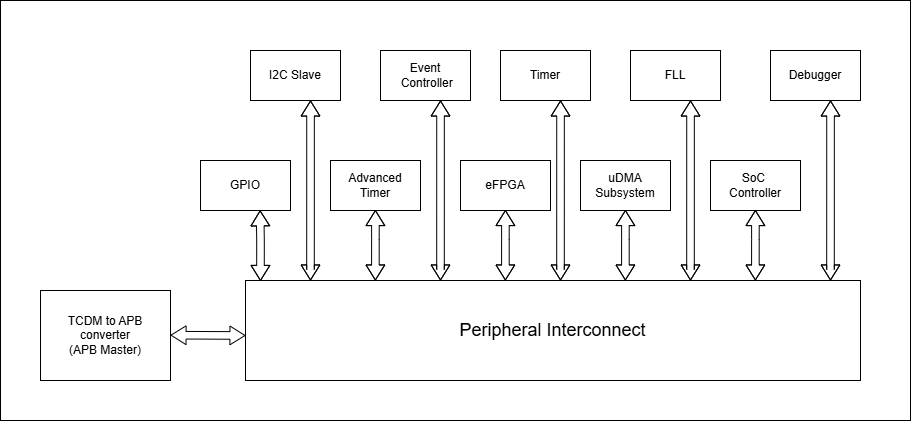
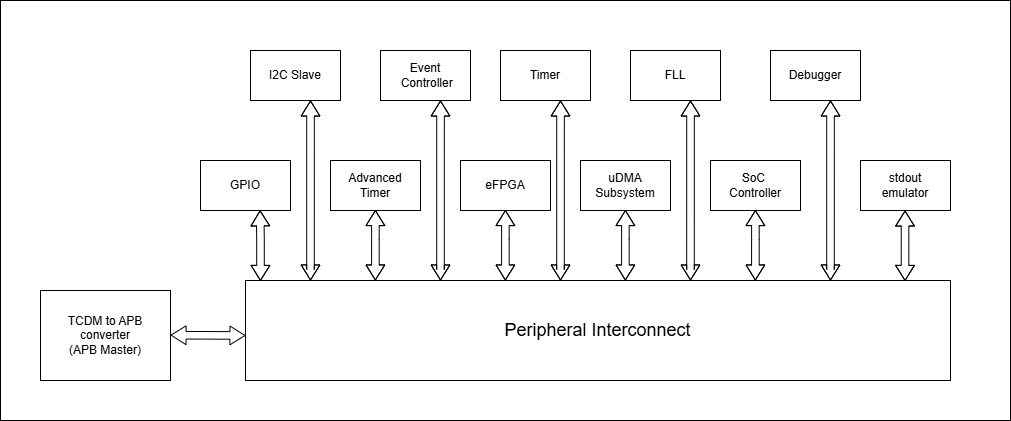
Updated Peripheral Interconnect docs

diff --git a/docs/doc-src/apb_peripheral_interconnect.rst b/docs/doc-src/apb_peripheral_interconnect.rst
@@ -21,11 +21,11 @@ APB Peripheral Interconnect
 ===========================
 
 The APB Peripheral Interconnect(Peripheral Bus Wrapper) functions as a central interface hub that enables communication between multiple peripheral devices and the Core Complex of CORE-V-MCU.
-This IP is essenitally an APB bus wrapper which works based on APB protocol and efficiently routes APB transactions from TCDM bus to various peripheral controllers based on address mapping, facilitating organized and structured communication within the CORE-V-MCU.
+This IP is essenitally an APB bus wrapper which works based on APB protocol and efficiently routes APB transactions from TCDM Interconnect to various peripheral controllers based on address mapping, facilitating organized and structured communication within the CORE-V-MCU.
 
 Features
 --------
-  - Multiple Peripheral Support: Interfaces with 11 distinct peripheral devices
+  - Multiple Peripheral Support: Interfaces with 11 distinct peripheral devices to provide memory-mapped access
   - Address-Based Routing: Routes transactions based on predefined address ranges
   - Request Timeout detection: Includes request timeout detection and peripheral-specific timeout reporting
   - Request Timeout error reporting: Provides peripheral-specific request timeout reporting via dedicated signals
@@ -45,13 +45,27 @@ The figure below is a high-level block diagram of the APB Peripheral Interconnec
 
 APB Transaction Routing
 ^^^^^^^^^^^^^^^^^^^^^^^
-The APB Peripheral Interconnect operates as a bridge between the system bus(TCDM bus) and multiple peripheral devices, allowing for efficient communication and data transfer.
+The APB Peripheral Interconnect operates as a bridge between the TCDM Interconnect and multiple peripheral devices, allowing for efficient communication and data transfer.
 The APB transaction routing flow can be summarized as follows:
 
-    - Firmware performs read/write operations to specific memory-mapped addresses, Core Complex initiates APB transactions to the APB Peripheral Interconnect.
-    - APB Peripheral Interconnect routes these transactions to the appropriate peripheral based on address ranges.
-    - Peripherals respond through the wrapper back to the requesting master.
-    - If a peripheral fails to respond, the integrated timeout detection mechanism activates and reports which peripheral has timed out.
+    - Firmware performs read/write operations to specific memory-mapped addresses, Core Complex initiates APB transactions to the APB Peripheral Interconnect via TCDM Interconnect.
+    - The APB peripheral interconnect accepts the transaction coming from TCDM at the apb_slave interface.
+    - The APB Peripheral Interconnect provides routing to the following peripherals:
+        - APB FLL                                      
+        - APB GPIO                                     
+        - uDMA Subsystem                               
+        - APB SoC Controller                           
+        - APB Advanced Timer                           
+        - APB Event Controller                         
+        - APB I2C Slave                                
+        - APB Timer                                    
+        - eFPGA subsystem                             
+        - APB Debugger 
+        - stdout emulator  
+    - APB Peripheral Interconnect routes these transactions received from TCDM interconnect to the peripherals based on address ranges and raises a start_rto_o signal to the SOC controller. Refer to the `memory map <https://docs.openhwgroup.org/projects/core-v-mcu/doc-src/mmap.html>`_ for the complete address mapping of the peripherals. 
+    - APB Peripheral Interconnect uses the <peripheralName>_master (e.g., soc_ctrl_master, etc.) interface to forward the transaction to the peripherals.
+    - Both master and slave interfaces of the APB peripheral are designed using the APB protocol.
+    - If a peripheral fails to respond to APB interconnect within a predefined time, the integrated timeout detection mechanism activates and reports which peripheral has timed out. The timeout mechanism is discussed in the Timeout Mechanism section.
 
 Timeout Mechanism
 ^^^^^^^^^^^^^^^^^
@@ -59,8 +73,49 @@ The APB Peripheral Interconnect includes a timeout detection mechanism to handle
 Below is a description of the timeout handling process:
 
     - The start_rto_o signal is activated when a peripheral is selected based on the address specified in the APB transaction, triggering timeout counter in SoC Controller.
-    - If a peripheral doesn't respond within the timeout period i.e. before the rto_i input is asserted by SoC Controller, a timeout error occurs.
-    - When a timeout occurs, the peripheral_rto_o signals indicate which specific peripheral failed to respond, which then can be read through the SoC Controller.
+    - The SoC Controller has RTO_COUNT CSR that can be used to decide the timeout period. The default value of RTO_COUNT is 0xFF.
+    - If a peripheral doesn't respond within the timeout period i.e. before the rto_i input is asserted by SoC Controller for one clock cycle, a timeout error occurs.
+    - When a timeout occurs, the peripheral_rto_o signals indicate which specific peripheral failed to respond, which then can be read through the SoC Controller's RTO_PERIPHERAL CSR.(Check `SoC Controller <https://docs.openhwgroup.org/projects/core-v-mcu/doc-src/ip-blocks/apb_soc_ctrl.html>`_ specs for more details)
+    - The peripheral_rto_o signal is cleared after one clock cycle.
+
+The peripheral_rto_o signal to peripheral mapping can be found below:
+
++-----------------+----------+-------------+----------------------------------------+
+| Peripheral      | **Bit**  | **Default** | **Description**                        |
++=================+==========+=============+========================================+
+| APB debugger    |   10:10  | 0x0         | 1 indicates that the debugger          |
+|                 |          |             | interface caused a ready timeout       |
++-----------------+----------+-------------+----------------------------------------+
+| stdout emulator |   9:9    | 0x0         | 1 indicates that the stdout emulator   |
+|                 |          |             | interface caused a ready timeout       |
++-----------------+----------+-------------+----------------------------------------+
+| Core-Complex    |   8:8    | 0x0         | 1 indicates that the FC/Core-Complex   |
+|                 |          |             | interface caused a ready timeout       |
++-----------------+----------+-------------+----------------------------------------+
+| APB TIMER       |   7:7    | 0x0         | 1 indicates that the Timer interface   |
+|                 |          |             | caused a ready timeout                 |
++-----------------+----------+-------------+----------------------------------------+
+| APB I2CS        |   6:6    | 0x0         | 1 indicates that the I2CS interface    |
+|                 |          |             | caused a ready timeout                 |
++-----------------+----------+-------------+----------------------------------------+
+| APB EVENT CTRL  |   5:5    | 0x0         | 1 indicates that the Event Controller  |
+|                 |          |             | interface caused a ready timeout       |
++-----------------+----------+-------------+----------------------------------------+
+| APB ADV TIMER   |   4:4    | 0x0         | 1 indicates that the Advanced Timer    |
+|                 |          |             | interface caused a ready timeout       |
++-----------------+----------+-------------+----------------------------------------+
+| APB SOC CONTROL |   3:3    | 0x0         | 1 indicates that the SoC Controller    |
+|                 |          |             | interface caused a ready timeout       |
++-----------------+----------+-------------+----------------------------------------+
+| uDMA subsystem  |   2:2    | 0x0         | 1 indicates that the uDMA Subsystem    |
+|                 |          |             | interface caused a ready timeout       |
++-----------------+----------+-------------+----------------------------------------+
+| APB GPIO        |   1:1    | 0x0         | 1 indicates that the GPIO interface    |
+|                 |          |             | caused a ready timeout                 |
++-----------------+----------+-------------+----------------------------------------+
+| APB FLL         |   0:0    | 0x0         | 1 indicates that the FLL interface     |
+|                 |          |             | caused a ready timeout                 |
++-----------------+----------+-------------+----------------------------------------+
 
 System Architecture
 -------------------
@@ -74,21 +129,7 @@ The figure below depicts the connections between the CORE-V-MCU and rest of the 
 
    APB Peripheral Interconnect CORE-V-MCU connections diagram
 
-The APB Peripheral Interconnect provides routing to the following modules:
-                               
-  - APB FLL                                      
-  - APB GPIO                                     
-  - uDMA Subsystem                               
-  - APB SoC Controller                           
-  - APB Advanced Timer                           
-  - APB Event Controller                         
-  - APB I2C Slave                                
-  - APB Timer                                    
-  - eFPGA subsystem                             
-  - APB Debugger 
-  - stdout emulator                                 
-
-Refer to the Memory map for the complete address mapping of the peripherals(https://docs.openhwgroup.org/projects/core-v-mcu/doc-src/mmap.html).
+Note: The stdout emulator is only used during synthesis and does not correspond to an actual hardware block.
 
 Firmware Guidelines
 -------------------
@@ -98,7 +139,7 @@ Although standard memory read/write operations to the APB peripheral devices wil
 The following general guidelines should be followed while interacting Peripheral devices through the APB Peripheral Interconnect:
 
   - Access peripheral registers using memory-mapped operations with the correct address calculated as (peripheral_base_address + register_offset).
-  - Ensure that the firmware handles timeout conditions gracefully(Check SoC Controller specs for more details - https://docs.openhwgroup.org/projects/core-v-mcu/doc-src/ip-blocks/apb_soc_ctrl.html).
+  - Ensure that the firmware handles timeout conditions gracefully(Check `SoC Controller <https://docs.openhwgroup.org/projects/core-v-mcu/doc-src/ip-blocks/apb_soc_ctrl.html>`_ specs for more details).
   - Implement error handling for cases where a peripheral does not respond within the expected time frame.
 
 Pin Description
@@ -124,7 +165,7 @@ Ready Timeout Signals
 
 APB Slave Interface
 ^^^^^^^^^^^^^^^^^^^
-    - apb_slave: APB slave interface, connected with TCDM bus
+    - apb_slave: APB slave interface, connected with TCDM Interconnect
 
 APB Master Interfaces
 ^^^^^^^^^^^^^^^^^^^^^
